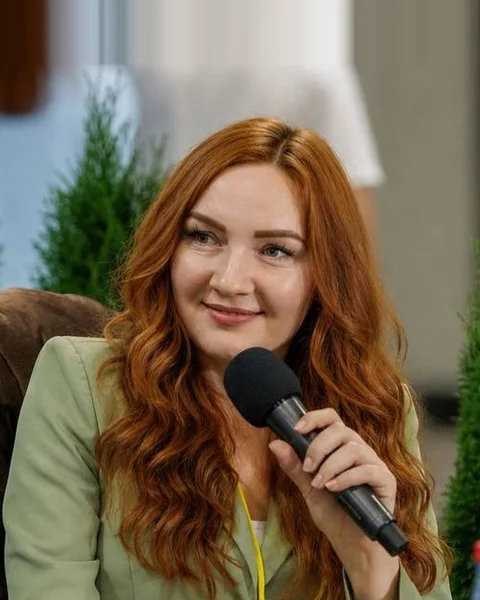
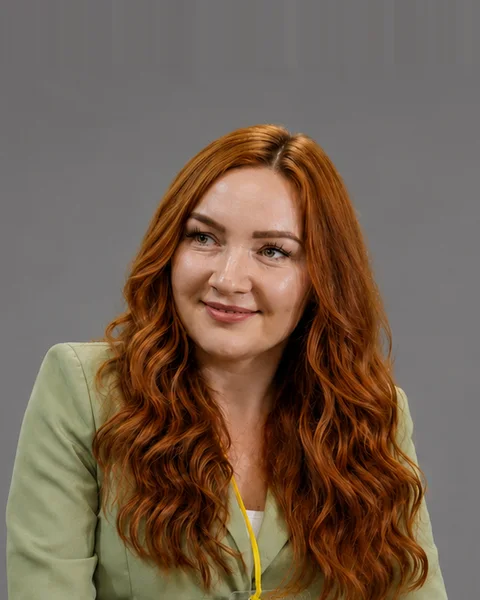
v33: девятый спикер Пистунова (первая в списке), сетка 3x3, 4 новых фото с единым фоном

diff --git a/src33/content.js b/src33/content.js
@@ -134,7 +134,7 @@ export const WEBINARS = [
   },
   {
     title: 'Государственная поддержка субъектов МСП',
-    speaker: 'Инна Леонидовна Беляева',
+    speaker: 'Елена Алексеевна Пистунова',
     kind: 'вебинар',
     points: [
       'Узнаете, какие виды поддержки существуют: гранты, субсидии, льготные программы.',
@@ -147,16 +147,18 @@ export const WEBINARS = [
 /* Спикеры программы — собраны из лекций/вебинаров выше (2026-07-22).
    Темы — из названий занятий, ничего не выдумано.
    Фото (2026-07-24, от заказчика): public/speakers/<photo>.webp, 800x1000.
-   Беляева Инна Леонидовна — модератор программы (уточнил заказчик 24.07). */
+   Беляева Инна Леонидовна — модератор программы (уточнил заказчик 24.07).
+   Порядок задан заказчиком 27.07: Пистунова, Беляева, дальше как в программе. */
 export const SPEAKERS = [
+  { name: 'Елена Алексеевна Пистунова', topic: 'Государственная поддержка субъектов МСП', photo: 'pistunova' },
+  { name: 'Инна Леонидовна Беляева', topic: 'Модератор программы', photo: 'belyaeva' },
   { name: 'Елена Юрьевна Нагорная', topic: 'Психология предпринимательства · бизнес-идеи', photo: 'nagornaya' },
   { name: 'Любовь Викторовна Шаповалова', topic: 'Маркетинг и продажи', photo: 'shapovalova' },
-  { name: 'Василий Владимирович Жабин', topic: 'Финансы · пассивный доход', photo: 'zhabin', pos: '50% 0%' },
+  { name: 'Василий Владимирович Жабин', topic: 'Финансы · пассивный доход', photo: 'zhabin' },
   { name: 'Михаил Васильевич Гаврилов', topic: 'Бухгалтерия, налоги, право', photo: 'gavrilov' },
   { name: 'Татьяна Николаевна Папета', topic: 'Управление эмоциями', photo: 'papeta' },
   { name: 'Евгения Андреевна Гертель', topic: 'Франчайзинг', photo: 'gertel' },
   { name: 'Лариса Дмитриевна Амельченко', topic: 'Кадры и команда', photo: 'amelchenko' },
-  { name: 'Инна Леонидовна Беляева', topic: 'Модератор программы', photo: 'belyaeva' },
 ]
 
 /* Фото по имени спикера — для модалки программы */

diff --git a/src33/components/Speakers5.jsx b/src33/components/Speakers5.jsx
@@ -13,9 +13,10 @@ const EASE = [0.19, 1, 0.22, 1]
 export default function Speakers5() {
   return (
     <section id="speakers" className="relative py-24 md:py-32">
-      {/* Шире остальных секций: восемь портретов на десктопе иначе жмутся
-          в узкой колонке, а по краям остаётся много пустого места (24.07) */}
-      <div className="max-w-6xl lg:max-w-[82rem] mx-auto px-6 lg:px-10">
+      {/* Спикеров стало 9 → сетка 3×3 (просьба заказчика 27.07), а колонка
+          сузилась до 5xl: при трёх картах на широкой полосе портреты
+          раздувались бы вдвое против прежних. Размер карточки прежний. */}
+      <div className="max-w-5xl mx-auto px-6 lg:px-10">
         <motion.h2
           className="relative text-[#f2ece3] font-black text-4xl md:text-6xl mb-12"
           initial={{ opacity: 0, y: 24 }}
@@ -29,10 +30,10 @@ export default function Speakers5() {
           <span className="relative">Спикеры</span>
         </motion.h2>
 
-        {/* 8 спикеров: 2 колонки на телефоне, 4 на десктопе — ровно 2 ряда.
+        {/* 9 спикеров: 2 колонки на телефоне, 3 дальше — ровно три ряда.
             Пропорция карточки = пропорции фото (4:5): снимок целиком, чистый,
             без плашек — ФИО и тема подписью ПОД карточкой (правка 24.07) */}
-        <div className="grid grid-cols-2 md:grid-cols-3 lg:grid-cols-4 gap-x-3 gap-y-7 md:gap-x-5 md:gap-y-9">
+        <div className="grid grid-cols-2 md:grid-cols-3 gap-x-3 gap-y-7 md:gap-x-5 md:gap-y-9">
           {SPEAKERS.map(({ name, topic, photo, tbd }, i) => (
             <motion.div
               key={name}
@@ -45,7 +46,7 @@ export default function Speakers5() {
               <div className="speaker-card3 aspect-[4/5] relative overflow-hidden">
                 {photo ? (
                   <img
-                    src={`../speakers/${photo}.webp?v=4`}
+                    src={`../speakers/${photo}.webp?v=5`}
                     alt={name}
                     loading="lazy"
                     className="absolute inset-0 w-full h-full object-cover transition-transform duration-700 ease-out group-hover:scale-[1.045]"

diff --git a/scripts/face-boxes.py b/scripts/face-boxes.py
@@ -12,14 +12,15 @@ import numpy as np
 
 SRC = pathlib.Path(r"C:\Users\vlad\Documents\nashedelo23\Фото спикеров")
 FILES = {
+    "Елена Алексеевна Пистунова.png": "pistunova",
+    "Инна Леонидовна Беляева.png": "belyaeva",
     "Нагорная.jpg": "nagornaya",
     "Шаповалова Л.В..jpg": "shapovalova",
     "Жабин В.В..jpg": "zhabin",
     "Гаврилов.jpg": "gavrilov",
-    "Папета.jpg": "papeta",
-    "Гертель.jpg": "gertel",
+    "Татьяна Николаевна Папета.png": "papeta",
+    "Евгения Андреевна Гертель.png": "gertel",
     "Амельченко.jpg": "amelchenko",
-    "Беляева.jpg": "belyaeva",
 }
 
 cascades = [
